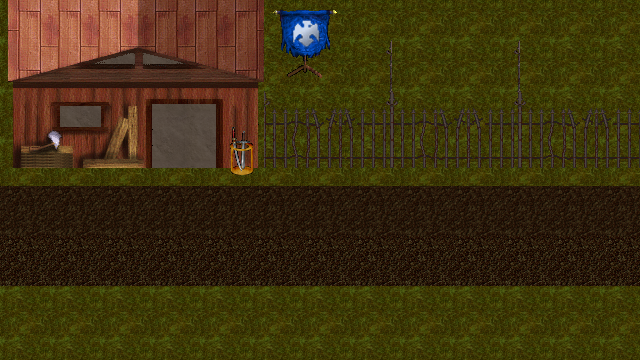
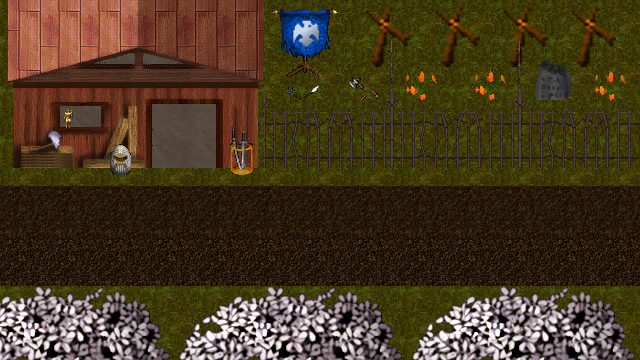
sep11 1623

diff --git a/labeto1/js/Map.js b/labeto1/js/Map.js
@@ -2,7 +2,7 @@
 export default class {
   constructor(fullLoad) {
     this.fullLoad = fullLoad;
-    this.index = 0;
+    this.index = 2;
     this.setImgs();
   }
   setImgs() {
@@ -43,7 +43,10 @@ export default class {
         [-50, 260, 660, 380],
       ],
       [
-
+        [-50, -50, 168, 200],
+        [150, -50, 220, 128],
+        [206, -50, 680, 200],
+        [-50, 260, 680, 380],
       ]
     ];
     console.log(x, y);

diff --git a/labeto1/js/Game.js b/labeto1/js/Game.js
@@ -3,7 +3,6 @@ import Map from "./Map.js";
 import PlayerControl from "./player/Control.js";
 export default class {
   setup() {
-    this.elements = [];
     this.assignMap();
   }
   assignMap() {
